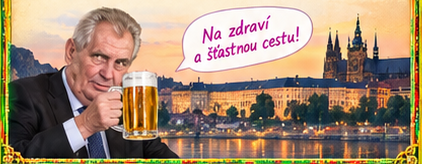
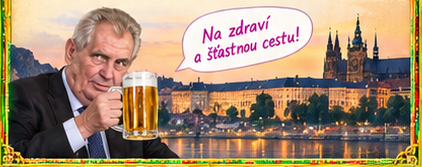
fix: cropping

diff --git a/index.html b/index.html
@@ -81,7 +81,7 @@
     /* ---------- prostřední řádek: lišta | obsah | lišta ---------- */
     .layout {
       display: grid;
-      grid-template-columns: 8.03% minmax(0, 1fr) 7.74%; /* 84 / 881 / 81 z 1046 */
+      grid-template-columns: 8.22% minmax(0, 1fr) 8.51%; /* 86 / 871 / 89 z 1046 */
     }
 
     .side {
@@ -152,7 +152,7 @@
       display: grid;
       grid-template-columns: repeat(6, 1fr);
       gap: 8px;
-      padding: 9px 8px;
+      padding: 9px 6px;
       background: linear-gradient(#150000, #3a0000 45%, #150000);
       border-top: 3px ridge var(--gold);
       border-bottom: 3px ridge var(--gold);
@@ -235,9 +235,11 @@
     .content-grid {
       display: grid;
       grid-template-columns: 1fr 1fr;
-      gap: 10px;
-      padding: 10px 10px 12px;
+      grid-template-rows: auto 1fr;
+      gap: 9px;
+      padding: 10px 4px 12px;
       align-items: stretch;
+      flex: 1 1 auto;
     }
 
     .panel {
@@ -295,7 +297,7 @@
     /* spodní pás = ilustrace včetně rámu a rohů */
     .pfoot { display: block; width: 100%; height: auto; }
     .pfoot-plain {
-      height: 24px;
+      height: 27px;
       background:
         url("assets/ui/f2-left.png") left top no-repeat,
         url("assets/ui/f2-right.png") right top no-repeat,
